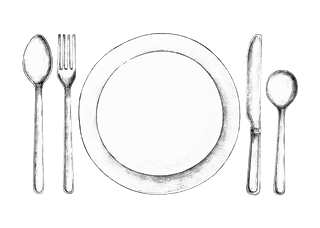
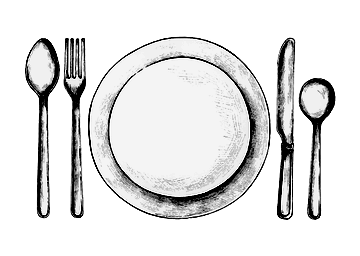
fix: illustrazione Pranzo piu dettagliata e contrastata
Riestratta dall'originale ad alta risoluzione preservando la
tratteggiatura e le ombre del piatto, con contrasto aumentato per
allinearla allo stile delle altre illustrazioni della timeline.

Changed region(s): [[0.0625, 0.1228, 0.9375, 0.8596], [0.5, 0.2763, 0.5312, 0.307]]

diff --git a/_tools/prep-pranzo.js b/_tools/prep-pranzo.js
@@ -1,0 +1,49 @@
+// Re-extract the "Pranzo" plate illustration from the high-res original,
+// preserving pencil shading and boosting contrast so it reads as well
+// as the bolder timeline sketches (Sala, Aperitivo).
+const sharp = require('sharp');
+const path = require('path');
+const fs = require('fs');
+
+const base = path.join(__dirname, '..', 'images');
+const src = path.join(base, 'hand-drawn-cutlery-set', 'dw21-mynt-11.jpg');
+
+// Levels: pixels darker than LOW -> black, lighter than HIGH -> white.
+// Tightening this range darkens the pencil strokes and deepens shading.
+const LOW = 175;
+const HIGH = 250;
+
+async function run(out) {
+  // Higher render size keeps the linework crisp; resize 320 max side like the others.
+  const pipeline = sharp(src).resize(360, 360, { fit: 'inside', withoutEnlargement: true });
+  const { data, info } = await pipeline.ensureAlpha().raw().toBuffer({ resolveWithObject: true });
+
+  for (let i = 0; i < data.length; i += 4) {
+    const r = data[i], g = data[i + 1], b = data[i + 2];
+    const lum = 0.299 * r + 0.587 * g + 0.114 * b;
+
+    // Levels remap -> increases contrast / darkens strokes
+    let t = (lum - LOW) / (HIGH - LOW);
+    t = t < 0 ? 0 : t > 1 ? 1 : t;
+    const outLum = Math.round(t * 255);
+
+    // Alpha: pure background transparent, strokes & shading opaque
+    let alpha;
+    if (outLum >= 250) alpha = 0;
+    else if (outLum >= 215) alpha = Math.round((255 - outLum) * 4);
+    else alpha = 255;
+    if (alpha > 255) alpha = 255;
+
+    data[i] = data[i + 1] = data[i + 2] = outLum; // neutral gray->black linework
+    data[i + 3] = alpha;
+  }
+
+  await sharp(Buffer.from(data), {
+    raw: { width: info.width, height: info.height, channels: 4 }
+  }).png({ compressionLevel: 8 }).toFile(out);
+
+  const kb = Math.round(fs.statSync(out).size / 1024);
+  console.log(`OK ${path.basename(out)} (${info.width}x${info.height}px, ${kb}KB)`);
+}
+
+run(path.join(base, 'sketch_pranzo_preview.png'));